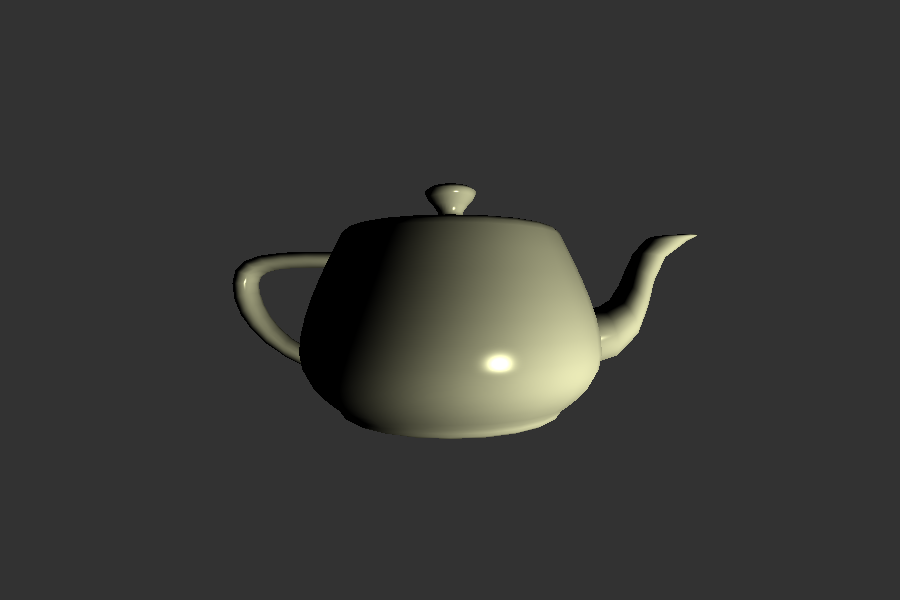
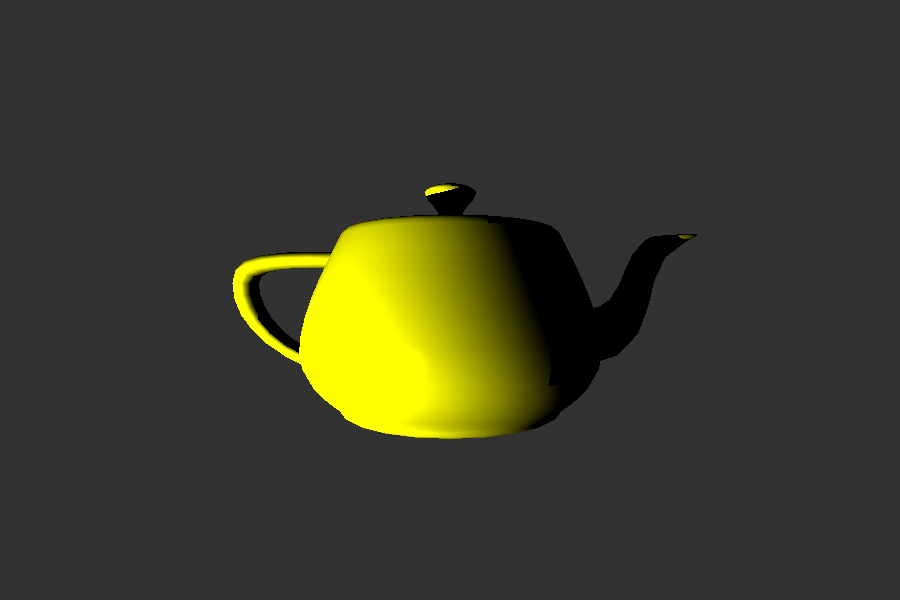
Fixed some shadow logic.

Changed region(s): [[0.2489, 0.3, 0.7778, 0.75]]

diff --git a/src/me/alejandro/raytracer/engine/Render.java b/src/me/alejandro/raytracer/engine/Render.java
@@ -18,7 +18,7 @@ public class Render {
 	//private final static int MAX_BOUNCES = 4;
 	//private final static int INDIRECT_SAMPLES = 20;
 	
-	private final static boolean SHADOWS = false;
+	private final static boolean SHADOWS = true;
 	//private final static int SOFT_SHADOW_SAMPLES = 1;
 	
 	private final static boolean REFLECTIONS = false; //issue: wont reflect a component color if there is no direct light source for the color.
@@ -61,7 +61,7 @@ public class Render {
 			double intersectDistance = Double.MAX_VALUE;
 			for(Model loopModel : scene.models) {
 
-                //ignore objects with a bounding box that is not intersected by camera ray. This saves a LOT of render time.
+				//ignore objects with a bounding box that is not intersected by camera ray. This saves a LOT of render time.
 				if(!cameraRayInBoundsOfModel(ray, loopModel)) {
 					//red += 50; //debugging
 					continue;
@@ -101,20 +101,29 @@ public class Render {
 				//calculate direct lighting
 				Vector camera = new Vector(0 - intersectFirst.getX(), 0 - intersectFirst.getY(), 0 - intersectFirst.getZ());
 				camera.normalize();
-				boolean lightRayHitSomething = false;
+				boolean lightRayHitSomething;
 				for(Lamp loopLamp : scene.lamps) {
+					lightRayHitSomething = false;
 					Vector lampVectorNotNormalized = new Vector(loopLamp.getCoordinate().getX() - intersectFirst.getX(), loopLamp.getCoordinate().getY() - intersectFirst.getY(), loopLamp.getCoordinate().getZ() - intersectFirst.getZ());
 					Vector lampVector = new Vector(lampVectorNotNormalized);
 					lampVector.normalize();
 
 					//test for shadows
+
+					/* Terminator Problem:
+					 * It doesn't seem like many people have developed ways to fix shadows with smooth shaded objects, yet. I'll have to figure this out myself.
+					 * I can tell there is a lot of math involved.
+					 * Blender has this issue too, even with the Cycles rendering engine selected.
+					 * 3Delight is said to have this issue too, as well as V-ray and Renderman. Yikes.
+					 */
 					if(SHADOWS) {
 						//for(int i1 = 0; i1 < SOFT_SHADOW_SAMPLES; i1++) {
 							for(Model loopModel : scene.models) {
 								for(Triangle loopTriangle : loopModel.triangles) {
 									Coordinate intersectLightPath = rayIntersectsTriangle(intersectFirst.toVector(), lampVectorNotNormalized, loopTriangle);
-									if(intersectLightPath != null && intersectFirst.distanceSquared(intersectLightPath) <= intersectFirst.distanceSquared(loopLamp.getCoordinate())) {
+									if(intersectLightPath != null && intersectFirst.distanceSquared(loopLamp.getCoordinate()) > intersectLightPath.distanceSquared(loopLamp.getCoordinate())) {
 										lightRayHitSomething = true;
+										//red = 255;
 										break;
 									}
 								}

diff --git a/src/me/alejandro/raytracer/Main.java b/src/me/alejandro/raytracer/Main.java
@@ -90,8 +90,10 @@ public class Main {
 		//scene.models.add(cone);
 		scene.models.add(teapot);
 
-		Lamp lamp = new Lamp(new Coordinate(2, -0.8, 0), 3D, new Color(255, 255, 200), LampType.POINT);
-		scene.lamps.add(lamp);
+		Lamp lamp = new Lamp(new Coordinate(0.5, 0, 0), 0.5D, new Color(255, 255, 200), LampType.POINT);
+		Lamp lamp1 = new Lamp(new Coordinate(-2, -0.8, 0), 5D, new Color(255, 255, 0), LampType.POINT);
+		//scene.lamps.add(lamp);
+		scene.lamps.add(lamp1);
 
 		Render render = new Render(scene);
 		long timeElapsed = System.currentTimeMillis();
